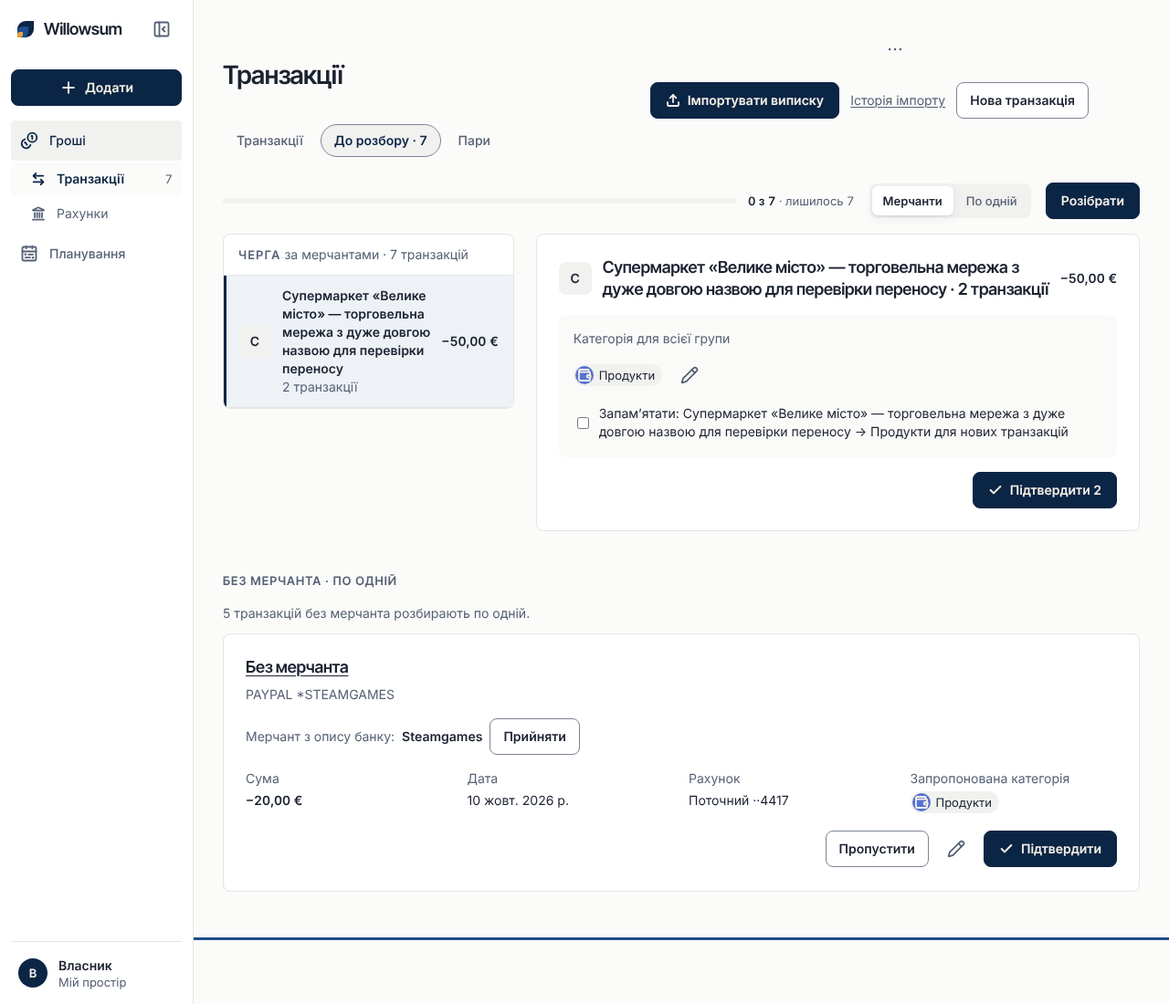
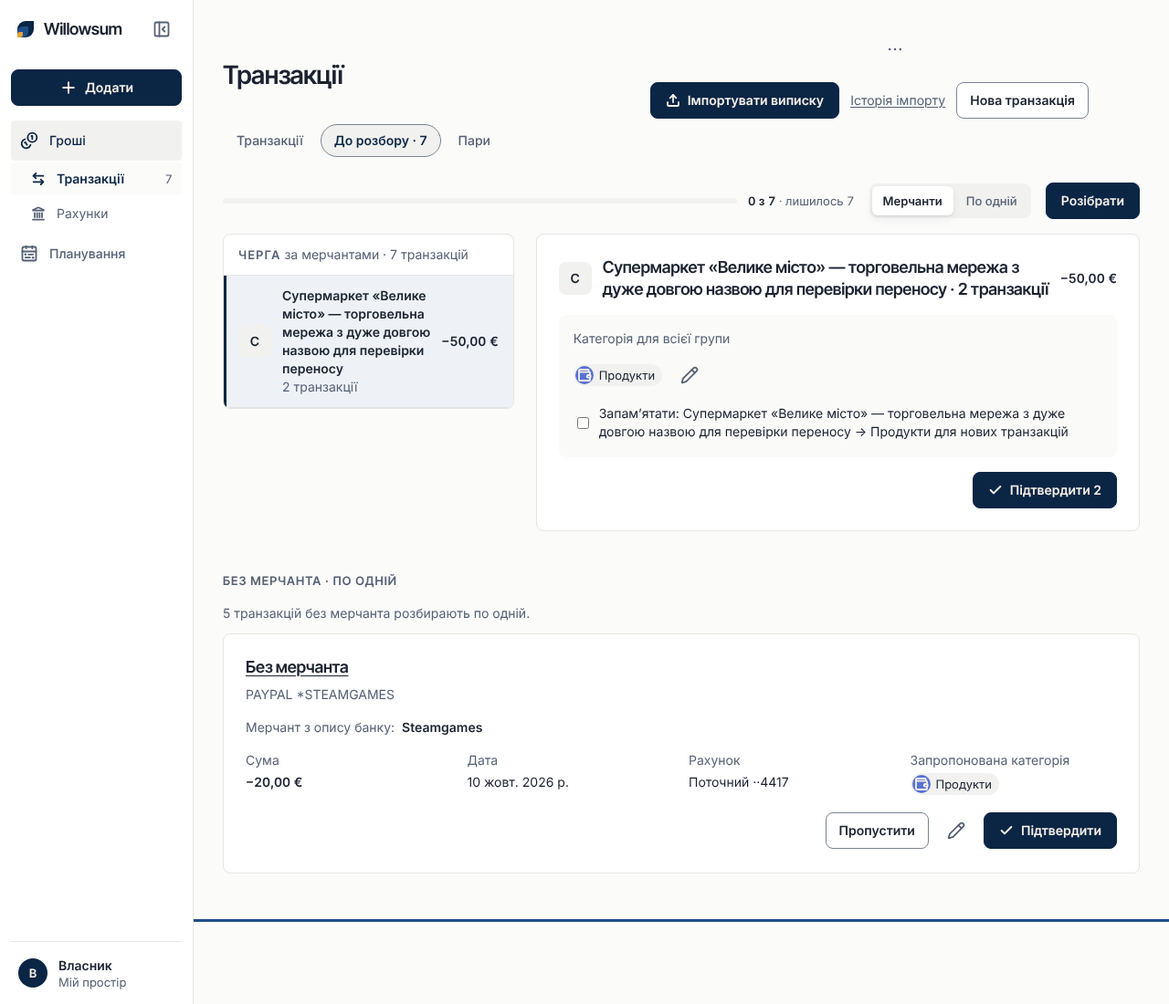
BUD-12: the suggested merchant is a hint, no «Прийняти»
A button that saves nothing misleads; the card shows «Мерчант з опису банку: X»
as a hint and the category picker uses X directly. Saving the merchant stays
with row 228.

Claude-Session: https://claude.ai/code/session_01Si6vs2sJ1s1pnxLk1y58Ad

diff --git a/design/canvas/PocMoneyReviewTexts.dc.html b/design/canvas/PocMoneyReviewTexts.dc.html
@@ -24,7 +24,7 @@
   <div data-content style="position:absolute;left:0;top:0;right:0;padding:32px 40px;display:flex;flex-direction:column;gap:16px;">
     <h1 style="margin:0;font:600 28px/34px 'Inter Tight',Inter,sans-serif;">Тексти · S-058 До розбору</h1>
     <p style="margin:0;color:#566174;font-size:13px;line-height:18px;max-width:1180px;">Обраний текст — дослівно той, що піде в uk.ts; англійський переклад — лише в en.ts. Тексти з позначкою «варіант від агента, потребує погодження» власник ще не обирав. Екран будують за BUD-12@PoC: де дошка S-058 відрізняється від вимоги (кнопка «Відмінити» над чергою, «Пропустити групу», «Розібрати по одній», перелік транзакцій групи, «так ви позначали … N разів», прапорець «Запам’ятати» увімкнений за замовчуванням), текстів цих елементів тут немає. Дані в текстах — назва змінної у фігурних дужках ({count}); кілька рядків в одній клітинці — окремі тексти або форми числа (1, 2–4, 5+, дробові). «звідки» — дошка, вимога або блок «Тексти», з якого взято обраний текст.</p>
-    <div style="display:grid;grid-template-columns:repeat(3,minmax(0,1fr));gap:32px;align-items:start;"><div style="display:flex;flex-direction:column;gap:16px;"><table class="t"><colgroup><col style="width:31%"><col style="width:45%"><col style="width:24%"></colgroup><thead><tr><th>ДЕ</th><th>ОБРАНИЙ ТЕКСТ</th><th>ІНШІ ВАРІАНТИ</th></tr></thead><tbody><tr class="s"><td colspan="3">Режим «Мерчанти»</td></tr><tr><td>Заголовок черги<span class="src">звідки: дошка S-058 («ЧЕРГА»)</span></td><td><span class="ch">Черга</span></td><td></td></tr><tr><td>Підзаголовок черги<span class="src">звідки: дошка S-058</span></td><td><span class="ch">за мерчантами · {transactions}</span></td><td></td></tr><tr><td>Кількість транзакцій (1, 2–4, 5+, дробові)<span class="src">звідки: дошка S-058 («12 транзакцій»)</span></td><td><span class="ch">{count} транзакція</span><span class="ch">{count} транзакції</span><span class="ch">{count} транзакцій</span><span class="ch">{count} транзакції</span></td><td></td></tr><tr><td>Назва списку груп для читача<span class="src">звідки: —</span></td><td><span class="ch">Мерчанти в черзі</span><span class="mk">варіант від агента, потребує погодження</span></td><td></td></tr><tr><td>Груп більше, ніж показано<span class="src">звідки: —</span></td><td><span class="ch">Мерчантів у черзі: {count}; показано перші {shown}</span><span class="mk">варіант від агента, потребує погодження</span></td><td></td></tr><tr><td>Заголовок розділу транзакцій без мерчанта (після груп; групи «Без мерчанта» немає)<span class="src">звідки: BUD-12 FR 14; рішення власника 2026-11-26</span></td><td><span class="ch">Без мерчанта · по одній</span><span class="mk">варіант від агента, потребує погодження</span></td><td></td></tr><tr><td>Пояснення розділу без мерчанта<span class="src">звідки: BUD-12 FR 14</span></td><td><span class="ch">{transactions} без мерчанта розбирають по одній.</span><span class="mk">варіант від агента, потребує погодження</span></td><td></td></tr><tr><td>Мерчант з опису банку на картці без мерчанта<span class="src">звідки: BUD-12 FR 14, AC 11</span></td><td><span class="ch">Мерчант з опису банку:</span><span class="mk">варіант від агента, потребує погодження</span></td><td></td></tr><tr><td>Прийняти запропонованого мерчанта<span class="src">звідки: BUD-12 FR 14</span></td><td><span class="ch">Прийняти</span><span class="mk">варіант від агента, потребує погодження</span></td><td></td></tr><tr><td>Заголовок групи<span class="src">звідки: дошка S-058 («Uklon · 12 транзакцій»)</span></td><td><span class="ch">{merchant} · {transactions}</span></td><td></td></tr><tr><td>Підпис категорії групи<span class="src">звідки: дошка S-058</span></td><td><span class="ch">Категорія для всієї групи</span></td><td></td></tr><tr><td>Олівець (назва і підказка)<span class="src">звідки: дошка S-058; BUD-12 FR 4</span></td><td><span class="ch">Змінити категорію</span></td><td></td></tr><tr><td>Прапорець правила<span class="src">звідки: дошка S-058</span></td><td><span class="ch">Запам’ятати: {merchant} → {category} для нових транзакцій</span></td><td></td></tr><tr><td>Кнопка групи<span class="src">звідки: дошка S-058 («Підтвердити 12»)</span></td><td><span class="ch">Підтвердити {count}</span></td><td></td></tr><tr><td>У групі різні категорії<span class="src">звідки: —</span></td><td><span class="ch">У групі різні категорії: «Підтвердити» призначить усім «{category}».</span><span class="mk">варіант від агента, потребує погодження</span></td><td></td></tr><tr><td>Групу прочитано з частини черги (truncated)<span class="src">звідки: —</span></td><td><span class="ch">Групу показано не повністю. Розберіть її по одній.</span><span class="mk">варіант від агента, потребує погодження</span></td><td></td></tr><tr><td>Сповіщення після групи<span class="src">звідки: CMP-20 («Категорію змінено для 5 транзакцій»)</span></td><td><span class="ch">Категорію підтверджено для {transactions}</span><span class="mk">варіант від агента, потребує погодження</span></td><td></td></tr><tr><td>Дія сповіщення після групи<span class="src">звідки: BUD-12 FR 6, FR 14; рішення власника 2026-11-18; той самий текст, що «Дія сповіщення» нижче</span></td><td><span class="ch">Відмінити</span></td><td></td></tr><tr><td>Часткове скасування групи<span class="src">звідки: BUD-12 FR 6, #529</span></td><td><span class="ch">Відмінено частково: транзакції знову в черзі, але категорію не повернуто</span><span class="src">рішення власника 2026-11-18: «все як радиш»</span></td><td></td></tr><tr><td>Часткове скасування групи, є невідновлені<span class="src">звідки: BUD-12 FR 6, #529</span></td><td><span class="ch">Відмінено частково: не відновлено {notRestored}. Категорію не повернуто</span><span class="src">рішення власника 2026-11-18: «все як радиш»</span></td><td></td></tr></tbody></table></div><div style="display:flex;flex-direction:column;gap:16px;"><table class="t"><colgroup><col style="width:31%"><col style="width:45%"><col style="width:24%"></colgroup><thead><tr><th>ДЕ</th><th>ОБРАНИЙ ТЕКСТ</th><th>ІНШІ ВАРІАНТИ</th></tr></thead><tbody><tr class="s"><td colspan="3">Вкладка і прогрес</td></tr><tr><td>Назва смуги прогресу для читача<span class="src">звідки: дошка S-058 (aria-label)</span></td><td><span class="ch">Розібрано</span></td><td></td></tr><tr><td>Перемикач вигляду: назва групи<span class="src">звідки: дошка S-058 (aria-label)</span></td><td><span class="ch">Показати</span></td><td></td></tr><tr><td>Перемикач вигляду: варіанти<span class="src">звідки: дошка S-058; BUD-12 FR 14</span></td><td><span class="ch">Мерчанти</span><span class="ch">По одній</span></td><td></td></tr><tr><td>Кнопка режиму карток<span class="src">звідки: BUD-12 FR 2, AC1</span></td><td><span class="ch">Розібрати</span></td><td></td></tr><tr><td>Лічильник на пункті «Транзакції» бічного меню (для читача)<span class="src">звідки: CMP-69 (приклад «3 до розбору»)</span></td><td><span class="ch">{count} до розбору</span></td><td></td></tr><tr class="s"><td colspan="3">Режим «По одній»</td></tr><tr><td>Картка для читача<span class="src">звідки: —</span></td><td><span class="ch">Транзакція до розбору</span><span class="mk">варіант від агента, потребує погодження</span></td><td></td></tr><tr><td>Підписи на картці<span class="src">звідки: BUD-12 FR 2 («запропонована категорія»)</span></td><td><span class="ch">Сума</span><span class="ch">Дата</span><span class="ch">Рахунок</span><span class="ch">Запропонована категорія</span><span class="mk">варіант від агента, потребує погодження</span></td><td></td></tr><tr><td>Дії картки<span class="src">звідки: BUD-12 FR 3</span></td><td><span class="ch">Пропустити</span><span class="ch">Змінити категорію</span><span class="ch">Підтвердити</span></td><td></td></tr><tr><td>Мерчанта немає<span class="src">звідки: —</span></td><td><span class="ch">Без мерчанта</span><span class="mk">варіант від агента, потребує погодження</span></td><td></td></tr><tr><td>Конфлікт версій<span class="src">звідки: BUD-12 FR 7, AC5</span></td><td><span class="ch">Транзакцію змінено, перевірте ще раз</span></td><td></td></tr><tr><td>Сповіщення: підтверджено<span class="src">звідки: —</span></td><td><span class="ch">Категорію підтверджено</span><span class="mk">варіант від агента, потребує погодження</span></td><td></td></tr><tr><td>Сповіщення: змінено<span class="src">звідки: —</span></td><td><span class="ch">Категорію змінено і підтверджено</span><span class="mk">варіант від агента, потребує погодження</span></td><td></td></tr><tr><td>Сповіщення: пропущено<span class="src">звідки: —</span></td><td><span class="ch">Транзакцію пропущено</span><span class="mk">варіант від агента, потребує погодження</span></td><td></td></tr><tr><td>Дія сповіщення<span class="src">звідки: BUD-12 FR 6; CMP-20</span></td><td><span class="ch">Відмінити</span></td><td></td></tr><tr><td>Дію не виконано<span class="src">звідки: S-036 · Тексти («Дію не виконано»)</span></td><td><span class="ch">Дію не виконано · Код: {code}</span></td><td></td></tr></tbody></table></div><div style="display:flex;flex-direction:column;gap:16px;"><table class="t"><colgroup><col style="width:31%"><col style="width:45%"><col style="width:24%"></colgroup><thead><tr><th>ДЕ</th><th>ОБРАНИЙ ТЕКСТ</th><th>ІНШІ ВАРІАНТИ</th></tr></thead><tbody><tr class="s"><td colspan="3">Вибір категорії (олівець)</td></tr><tr><td>Заголовок діалогу<span class="src">звідки: BUD-12 FR 4</span></td><td><span class="ch">Змінити категорію</span></td><td></td></tr><tr><td>Поле<span class="src">звідки: —</span></td><td><span class="ch">Категорія</span><span class="mk">варіант від агента, потребує погодження</span></td><td></td></tr><tr><td>Перша група, пошук, останній пункт<span class="src">звідки: CMP-03 (select.category.*)</span></td><td><span class="ch">Часто для «{merchant}»</span><span class="ch">Знайти категорію</span><span class="ch">Нова категорія</span></td><td></td></tr><tr><td>Закрити без змін<span class="src">звідки: S-048 · Тексти</span></td><td><span class="ch">Скасувати</span></td><td></td></tr><tr class="s"><td colspan="3">Стани</td></tr><tr><td>Завантаження<span class="src">звідки: BUD-12 «Стани інтерфейсу»</span></td><td><span class="ch">скелет картки транзакції (без тексту)</span></td><td></td></tr><tr><td>Помилка завантаження<span class="src">звідки: BUD-12 «Стани інтерфейсу»; PocStates</span></td><td><span class="ch">✕ Помилка</span><span class="ch">Не вдалося завантажити чергу</span><span class="ch">Спробувати ще раз</span><span class="ch">Код: {code}</span></td><td></td></tr><tr><td>Порожня черга: заголовок<span class="src">звідки: дошка S-058 · усе розібрано; BUD-12 FR 13</span></td><td><span class="ch">Усе розібрано</span></td><td></td></tr><tr><td>Порожня черга після розбору (1, 2–4, 5+, дробові)<span class="src">звідки: дошка S-058 · усе розібрано</span></td><td><span class="ch">{count} транзакцію підтверджено. Нові з’являться тут після наступного імпорту.</span><span class="ch">{count} транзакції підтверджено. Нові з’являться тут після наступного імпорту.</span><span class="ch">{count} транзакцій підтверджено. Нові з’являться тут після наступного імпорту.</span><span class="ch">{count} транзакції підтверджено. Нові з’являться тут після наступного імпорту.</span></td><td></td></tr><tr><td>Порожня черга без розбору в цій сесії<span class="src">звідки: —</span></td><td><span class="ch">Нові транзакції з’являться тут після наступного імпорту.</span><span class="mk">варіант від агента, потребує погодження</span></td><td></td></tr><tr><td>Кнопка порожнього стану<span class="src">звідки: дошка S-058 · усе розібрано</span></td><td><span class="ch">До транзакцій</span></td><td></td></tr><tr class="s"><td colspan="3">Корекції власника 2026-11-26 (журнал 2026-11-26-owner-corrections)</td></tr><tr><td>Дія картки<span class="src">звідки: рішення власника 2026-11-26 (Q6); у вимогу — з рядком 227</span></td><td><span class="ch">Змінити на переказ</span><span class="mk">варіант від агента, потребує погодження</span></td><td></td></tr><tr><td>Запропонований мерчант на картці транзакції без мерчанта<span class="src">звідки: BUD-12 FR 14, AC 11</span></td><td><span class="ch">Мерчант з опису банку: {merchant}</span><span class="ch">Прийняти</span><span class="ch">Змінити</span><span class="mk">варіант від агента, потребує погодження</span></td><td></td></tr><tr><td>Сповіщення після зміни на переказ<span class="src">звідки: рішення власника 2026-11-26 (Q6); у вимогу — з рядком 227</span></td><td><span class="ch">Транзакцію позначено як переказ</span><span class="mk">варіант від агента, потребує погодження</span></td><td></td></tr></tbody></table></div></div>
+    <div style="display:grid;grid-template-columns:repeat(3,minmax(0,1fr));gap:32px;align-items:start;"><div style="display:flex;flex-direction:column;gap:16px;"><table class="t"><colgroup><col style="width:31%"><col style="width:45%"><col style="width:24%"></colgroup><thead><tr><th>ДЕ</th><th>ОБРАНИЙ ТЕКСТ</th><th>ІНШІ ВАРІАНТИ</th></tr></thead><tbody><tr class="s"><td colspan="3">Режим «Мерчанти»</td></tr><tr><td>Заголовок черги<span class="src">звідки: дошка S-058 («ЧЕРГА»)</span></td><td><span class="ch">Черга</span></td><td></td></tr><tr><td>Підзаголовок черги<span class="src">звідки: дошка S-058</span></td><td><span class="ch">за мерчантами · {transactions}</span></td><td></td></tr><tr><td>Кількість транзакцій (1, 2–4, 5+, дробові)<span class="src">звідки: дошка S-058 («12 транзакцій»)</span></td><td><span class="ch">{count} транзакція</span><span class="ch">{count} транзакції</span><span class="ch">{count} транзакцій</span><span class="ch">{count} транзакції</span></td><td></td></tr><tr><td>Назва списку груп для читача<span class="src">звідки: —</span></td><td><span class="ch">Мерчанти в черзі</span><span class="mk">варіант від агента, потребує погодження</span></td><td></td></tr><tr><td>Груп більше, ніж показано<span class="src">звідки: —</span></td><td><span class="ch">Мерчантів у черзі: {count}; показано перші {shown}</span><span class="mk">варіант від агента, потребує погодження</span></td><td></td></tr><tr><td>Заголовок розділу транзакцій без мерчанта (після груп; групи «Без мерчанта» немає)<span class="src">звідки: BUD-12 FR 14; рішення власника 2026-11-26</span></td><td><span class="ch">Без мерчанта · по одній</span><span class="mk">варіант від агента, потребує погодження</span></td><td></td></tr><tr><td>Пояснення розділу без мерчанта<span class="src">звідки: BUD-12 FR 14</span></td><td><span class="ch">{transactions} без мерчанта розбирають по одній.</span><span class="mk">варіант від агента, потребує погодження</span></td><td></td></tr><tr><td>Підказка: мерчант з опису банку на картці без мерчанта<span class="src">звідки: BUD-12 FR 14, AC 11</span></td><td><span class="ch">Мерчант з опису банку:</span><span class="mk">варіант від агента, потребує погодження</span></td><td></td></tr><tr><td>Заголовок групи<span class="src">звідки: дошка S-058 («Uklon · 12 транзакцій»)</span></td><td><span class="ch">{merchant} · {transactions}</span></td><td></td></tr><tr><td>Підпис категорії групи<span class="src">звідки: дошка S-058</span></td><td><span class="ch">Категорія для всієї групи</span></td><td></td></tr><tr><td>Олівець (назва і підказка)<span class="src">звідки: дошка S-058; BUD-12 FR 4</span></td><td><span class="ch">Змінити категорію</span></td><td></td></tr><tr><td>Прапорець правила<span class="src">звідки: дошка S-058</span></td><td><span class="ch">Запам’ятати: {merchant} → {category} для нових транзакцій</span></td><td></td></tr><tr><td>Кнопка групи<span class="src">звідки: дошка S-058 («Підтвердити 12»)</span></td><td><span class="ch">Підтвердити {count}</span></td><td></td></tr><tr><td>У групі різні категорії<span class="src">звідки: —</span></td><td><span class="ch">У групі різні категорії: «Підтвердити» призначить усім «{category}».</span><span class="mk">варіант від агента, потребує погодження</span></td><td></td></tr><tr><td>Групу прочитано з частини черги (truncated)<span class="src">звідки: —</span></td><td><span class="ch">Групу показано не повністю. Розберіть її по одній.</span><span class="mk">варіант від агента, потребує погодження</span></td><td></td></tr><tr><td>Сповіщення після групи<span class="src">звідки: CMP-20 («Категорію змінено для 5 транзакцій»)</span></td><td><span class="ch">Категорію підтверджено для {transactions}</span><span class="mk">варіант від агента, потребує погодження</span></td><td></td></tr><tr><td>Дія сповіщення після групи<span class="src">звідки: BUD-12 FR 6, FR 14; рішення власника 2026-11-18; той самий текст, що «Дія сповіщення» нижче</span></td><td><span class="ch">Відмінити</span></td><td></td></tr><tr><td>Часткове скасування групи<span class="src">звідки: BUD-12 FR 6, #529</span></td><td><span class="ch">Відмінено частково: транзакції знову в черзі, але категорію не повернуто</span><span class="src">рішення власника 2026-11-18: «все як радиш»</span></td><td></td></tr><tr><td>Часткове скасування групи, є невідновлені<span class="src">звідки: BUD-12 FR 6, #529</span></td><td><span class="ch">Відмінено частково: не відновлено {notRestored}. Категорію не повернуто</span><span class="src">рішення власника 2026-11-18: «все як радиш»</span></td><td></td></tr></tbody></table></div><div style="display:flex;flex-direction:column;gap:16px;"><table class="t"><colgroup><col style="width:31%"><col style="width:45%"><col style="width:24%"></colgroup><thead><tr><th>ДЕ</th><th>ОБРАНИЙ ТЕКСТ</th><th>ІНШІ ВАРІАНТИ</th></tr></thead><tbody><tr class="s"><td colspan="3">Вкладка і прогрес</td></tr><tr><td>Назва смуги прогресу для читача<span class="src">звідки: дошка S-058 (aria-label)</span></td><td><span class="ch">Розібрано</span></td><td></td></tr><tr><td>Перемикач вигляду: назва групи<span class="src">звідки: дошка S-058 (aria-label)</span></td><td><span class="ch">Показати</span></td><td></td></tr><tr><td>Перемикач вигляду: варіанти<span class="src">звідки: дошка S-058; BUD-12 FR 14</span></td><td><span class="ch">Мерчанти</span><span class="ch">По одній</span></td><td></td></tr><tr><td>Кнопка режиму карток<span class="src">звідки: BUD-12 FR 2, AC1</span></td><td><span class="ch">Розібрати</span></td><td></td></tr><tr><td>Лічильник на пункті «Транзакції» бічного меню (для читача)<span class="src">звідки: CMP-69 (приклад «3 до розбору»)</span></td><td><span class="ch">{count} до розбору</span></td><td></td></tr><tr class="s"><td colspan="3">Режим «По одній»</td></tr><tr><td>Картка для читача<span class="src">звідки: —</span></td><td><span class="ch">Транзакція до розбору</span><span class="mk">варіант від агента, потребує погодження</span></td><td></td></tr><tr><td>Підписи на картці<span class="src">звідки: BUD-12 FR 2 («запропонована категорія»)</span></td><td><span class="ch">Сума</span><span class="ch">Дата</span><span class="ch">Рахунок</span><span class="ch">Запропонована категорія</span><span class="mk">варіант від агента, потребує погодження</span></td><td></td></tr><tr><td>Дії картки<span class="src">звідки: BUD-12 FR 3</span></td><td><span class="ch">Пропустити</span><span class="ch">Змінити категорію</span><span class="ch">Підтвердити</span></td><td></td></tr><tr><td>Мерчанта немає<span class="src">звідки: —</span></td><td><span class="ch">Без мерчанта</span><span class="mk">варіант від агента, потребує погодження</span></td><td></td></tr><tr><td>Конфлікт версій<span class="src">звідки: BUD-12 FR 7, AC5</span></td><td><span class="ch">Транзакцію змінено, перевірте ще раз</span></td><td></td></tr><tr><td>Сповіщення: підтверджено<span class="src">звідки: —</span></td><td><span class="ch">Категорію підтверджено</span><span class="mk">варіант від агента, потребує погодження</span></td><td></td></tr><tr><td>Сповіщення: змінено<span class="src">звідки: —</span></td><td><span class="ch">Категорію змінено і підтверджено</span><span class="mk">варіант від агента, потребує погодження</span></td><td></td></tr><tr><td>Сповіщення: пропущено<span class="src">звідки: —</span></td><td><span class="ch">Транзакцію пропущено</span><span class="mk">варіант від агента, потребує погодження</span></td><td></td></tr><tr><td>Дія сповіщення<span class="src">звідки: BUD-12 FR 6; CMP-20</span></td><td><span class="ch">Відмінити</span></td><td></td></tr><tr><td>Дію не виконано<span class="src">звідки: S-036 · Тексти («Дію не виконано»)</span></td><td><span class="ch">Дію не виконано · Код: {code}</span></td><td></td></tr></tbody></table></div><div style="display:flex;flex-direction:column;gap:16px;"><table class="t"><colgroup><col style="width:31%"><col style="width:45%"><col style="width:24%"></colgroup><thead><tr><th>ДЕ</th><th>ОБРАНИЙ ТЕКСТ</th><th>ІНШІ ВАРІАНТИ</th></tr></thead><tbody><tr class="s"><td colspan="3">Вибір категорії (олівець)</td></tr><tr><td>Заголовок діалогу<span class="src">звідки: BUD-12 FR 4</span></td><td><span class="ch">Змінити категорію</span></td><td></td></tr><tr><td>Поле<span class="src">звідки: —</span></td><td><span class="ch">Категорія</span><span class="mk">варіант від агента, потребує погодження</span></td><td></td></tr><tr><td>Перша група, пошук, останній пункт<span class="src">звідки: CMP-03 (select.category.*)</span></td><td><span class="ch">Часто для «{merchant}»</span><span class="ch">Знайти категорію</span><span class="ch">Нова категорія</span></td><td></td></tr><tr><td>Закрити без змін<span class="src">звідки: S-048 · Тексти</span></td><td><span class="ch">Скасувати</span></td><td></td></tr><tr class="s"><td colspan="3">Стани</td></tr><tr><td>Завантаження<span class="src">звідки: BUD-12 «Стани інтерфейсу»</span></td><td><span class="ch">скелет картки транзакції (без тексту)</span></td><td></td></tr><tr><td>Помилка завантаження<span class="src">звідки: BUD-12 «Стани інтерфейсу»; PocStates</span></td><td><span class="ch">✕ Помилка</span><span class="ch">Не вдалося завантажити чергу</span><span class="ch">Спробувати ще раз</span><span class="ch">Код: {code}</span></td><td></td></tr><tr><td>Порожня черга: заголовок<span class="src">звідки: дошка S-058 · усе розібрано; BUD-12 FR 13</span></td><td><span class="ch">Усе розібрано</span></td><td></td></tr><tr><td>Порожня черга після розбору (1, 2–4, 5+, дробові)<span class="src">звідки: дошка S-058 · усе розібрано</span></td><td><span class="ch">{count} транзакцію підтверджено. Нові з’являться тут після наступного імпорту.</span><span class="ch">{count} транзакції підтверджено. Нові з’являться тут після наступного імпорту.</span><span class="ch">{count} транзакцій підтверджено. Нові з’являться тут після наступного імпорту.</span><span class="ch">{count} транзакції підтверджено. Нові з’являться тут після наступного імпорту.</span></td><td></td></tr><tr><td>Порожня черга без розбору в цій сесії<span class="src">звідки: —</span></td><td><span class="ch">Нові транзакції з’являться тут після наступного імпорту.</span><span class="mk">варіант від агента, потребує погодження</span></td><td></td></tr><tr><td>Кнопка порожнього стану<span class="src">звідки: дошка S-058 · усе розібрано</span></td><td><span class="ch">До транзакцій</span></td><td></td></tr><tr class="s"><td colspan="3">Корекції власника 2026-11-26 (журнал 2026-11-26-owner-corrections)</td></tr><tr><td>Дія картки<span class="src">звідки: рішення власника 2026-11-26 (Q6); у вимогу — з рядком 227</span></td><td><span class="ch">Змінити на переказ</span><span class="mk">варіант від агента, потребує погодження</span></td><td></td></tr><tr><td>Запропонований мерчант на картці транзакції без мерчанта<span class="src">звідки: BUD-12 FR 14, AC 11</span></td><td><span class="ch">Мерчант з опису банку: {merchant}</span><span class="ch">Прийняти</span><span class="ch">Змінити</span><span class="mk">варіант від агента, потребує погодження</span></td><td></td></tr><tr><td>Сповіщення після зміни на переказ<span class="src">звідки: рішення власника 2026-11-26 (Q6); у вимогу — з рядком 227</span></td><td><span class="ch">Транзакцію позначено як переказ</span><span class="mk">варіант від агента, потребує погодження</span></td><td></td></tr></tbody></table></div></div>
   </div>
 </div>
 </x-dc>

diff --git a/apps/web/src/transactions/ReviewQueue.tsx b/apps/web/src/transactions/ReviewQueue.tsx
@@ -677,9 +677,8 @@ function CardsView({
   const [busy, setBusy] = useState(false);
   const [error, setError] = useState<string | null>(null);
   const [editing, setEditing] = useState(false);
-  /** FR 14: the merchant the bank's text names, by transaction (null — the API names none), and the accepted ones. */
+  /** FR 14: the merchant the bank's text names, by transaction (null — the API names none). */
   const [named, setNamed] = useState<ReadonlyMap<string, string | null>>(new Map());
-  const [accepted, setAccepted] = useState<ReadonlySet<string>>(new Set());
   const groupId = source?.groupId;
   const groupCount = useRef(source?.count ?? 0);
   useEffect(() => {
@@ -818,10 +817,9 @@ function CardsView({
   };
 
   const category = card.categoryId ? (categories.byId.get(card.categoryId) ?? null) : null;
-  // FR 14: a card without a merchant offers the merchant its bank description names; accepted, it is the card's merchant.
+  // FR 14: a card without a merchant shows the merchant its bank description names as a hint (nothing is saved).
   const suggested = card.item.counterparty === null ? (named.get(card.item.id) ?? null) : null;
-  const takenIn = suggested !== null && accepted.has(card.item.id);
-  const merchant = card.item.counterparty ?? (takenIn ? suggested : t("review.group.noMerchant"));
+  const merchant = card.item.counterparty ?? t("review.group.noMerchant");
   // The statement's own text under the title: always without a merchant; with one, only when it says more.
   const text = card.item.description?.trim() ?? "";
   const statement =
@@ -842,13 +840,9 @@ function CardsView({
         </a>
       </h2>
       {statement ? <p className="review-card-text ws-muted">{statement}</p> : null}
-      {suggested !== null && !takenIn ? (
+      {suggested !== null ? (
         <p className="review-card-suggest">
-          <span className="ws-muted">{t("review.card.suggested")}</span> <strong>{suggested}</strong>{" "}
-          <Button
-            label={t("review.card.accept")}
-            onClick={() => setAccepted((prev) => new Set(prev).add(card.item.id))}
-          />
+          <span className="ws-muted">{t("review.card.suggested")}</span> <strong>{suggested}</strong>
         </p>
       ) : null}
       <dl className="review-card-facts">
@@ -896,8 +890,8 @@ function CardsView({
       </div>
       {editing ? (
         <CategoryDialog
-          merchant={card.item.counterparty === null && !takenIn ? "" : merchant}
-          counterparty={card.item.counterparty ?? (takenIn ? statement : null)}
+          merchant={card.item.counterparty === null ? (suggested ?? "") : merchant}
+          counterparty={card.item.counterparty ?? (suggested !== null ? statement : null)}
           kind={card.item.type === "income" ? "income" : "expense"}
           categories={categories}
           reloadCategories={reloadCategories}

diff --git a/apps/web/src/transactions/bud12b-review.test.tsx b/apps/web/src/transactions/bud12b-review.test.tsx
@@ -584,28 +584,13 @@ describe("BUD-12@PoC b): «До розбору» (S-058)", () => {
       expect(within(next).queryByText("Мерчант з опису банку:")).toBeNull();
     });
 
-    it("BUD-12@PoC FR 16: until the suggested merchant is accepted the picker starts with «Нещодавні»; accepted — with «Часто для <мерчанта>»", async () => {
+    it("BUD-12@PoC FR 16: the picker of a card with a suggested merchant starts with «Часто для <мерчанта>», without one — «Нещодавні»; no «Прийняти»", async () => {
       const { api } = shellAndFive();
       open(api);
       const one = await screen.findByRole("region", { name: "Без мерчанта" });
-      await waitFor(() => expect(within(one).getByText("Steamgames")).toBeTruthy());
-      const pick = async () => {
-        act(() => within(one).getByRole("button", { name: "Змінити категорію" }).click());
-        const dialog = await screen.findByRole("dialog", { name: "Змінити категорію" });
-        act(() =>
-          within(dialog)
-            .getByRole("button", { name: /^Категорія/ })
-            .click(),
-        );
-        return within(dialog).getAllByRole("group")[0]!.textContent;
-      };
-      expect(await pick()).toContain("Нещодавні");
-      act(() => screen.getByRole("button", { name: "Скасувати" }).click());
-      act(() => within(one).getByRole("button", { name: "Прийняти" }).click());
-      // Accepted: the merchant is the card's title and the picker is asked for it.
-      await screen.findByRole("region", { name: "Steamgames" });
-      const accepted = screen.getByRole("region", { name: "Steamgames" });
-      act(() => within(accepted).getByRole("button", { name: "Змінити категорію" }).click());
+      await waitFor(() => expect(within(one).getByText("Steamgames", { exact: true })).toBeTruthy());
+      expect(within(one).queryByRole("button", { name: "Прийняти" })).toBeNull();
+      act(() => within(one).getByRole("button", { name: "Змінити категорію" }).click());
       const dialog = await screen.findByRole("dialog", { name: "Змінити категорію" });
       act(() =>
         within(dialog)

diff --git a/packages/i18n/src/messages/uk.ts b/packages/i18n/src/messages/uk.ts
@@ -2549,7 +2549,6 @@ export const uk = {
   "review.noMerchant.title": "Без мерчанта · по одній",
   "review.noMerchant.hint": "{transactions} без мерчанта розбирають по одній.",
   "review.card.suggested": "Мерчант з опису банку:",
-  "review.card.accept": "Прийняти",
   "review.group.title": "{merchant} · {transactions}",
   "review.group.category": "Категорія для всієї групи",
   "review.group.remember": "Запам’ятати: {merchant} → {category} для нових транзакцій",

diff --git a/packages/i18n/src/messages/en.ts b/packages/i18n/src/messages/en.ts
@@ -2562,7 +2562,6 @@ export const en: Messages = {
   "review.noMerchant.title": "No merchant · one by one",
   "review.noMerchant.hint": "{transactions} without a merchant are reviewed one by one.",
   "review.card.suggested": "Merchant from the bank description:",
-  "review.card.accept": "Accept",
   "review.group.title": "{merchant} · {transactions}",
   "review.group.category": "Category for the whole group",
   "review.group.remember": "Remember: {merchant} → {category} for new transactions",

diff --git a/docs/decisions/log/2026-11-26-row226-no-merchant-queue.md b/docs/decisions/log/2026-11-26-row226-no-merchant-queue.md
@@ -12,9 +12,9 @@
 - Рішення ведучого (2026-11-26; власник не схвалював; row 226): запропонований мерчант — `merchant` з
   `GET /v1/category-suggestions?counterparty=<опис банку>`; API окремого «мерчант з тексту» не має. Картка без
   мерчанта і без тексту пропозиції не має.
-- Рішення ведучого (2026-11-26; власник не схвалював; row 226): «Прийняти» зараз діє лише на картці: мерчант
-  стає назвою картки, а перша група вибору категорії — «Часто для <мерчанта>» (до того — «Нещодавні», FR 16).
-  Збереження мерчанта на транзакції і аудит — рядок 228 (сервер); до нього після перезавантаження картка знову
-  пропонує мерчанта.
+- Рішення ведучого (2026-11-26; власник не схвалював; row 226): кнопки «Прийняти» немає — вона нічого не зберігала б і
+  вводила б в оману. «Мерчант з опису банку: X» — лише підказка на картці; вибір категорії одразу використовує X
+  («Часто для X»), без мерчанта чи без пропозиції — «Нещодавні» (FR 16). Збереження мерчанта на транзакції і аудит —
+  рядок 228 (сервер).
 - Рішення ведучого (2026-11-26; власник не схвалював; row 226): нові тексти S-058 (розділ, пояснення, «Мерчант з опису
-  банку:», «Прийняти») записано на полотні «Тексти» з позначкою «варіант від агента, потребує погодження».
+  банку:») записано на полотні «Тексти» з позначкою «варіант від агента, потребує погодження».
